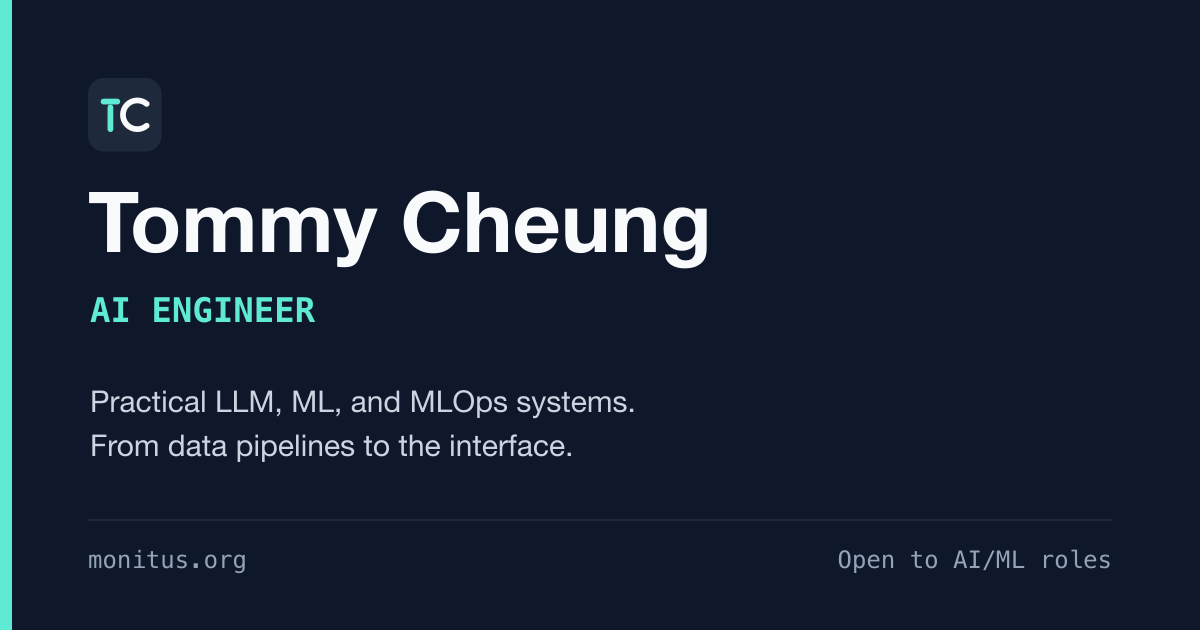
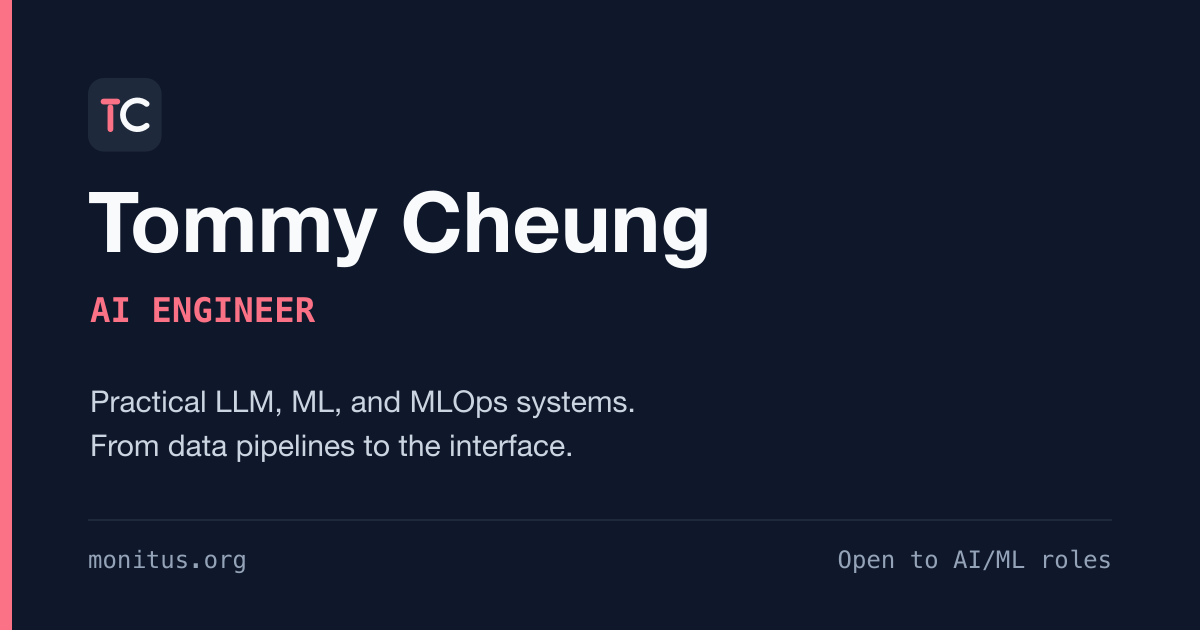
Switch accent palette to rose pink

Changed region(s): [[0.0, 0.0, 0.0308, 1.0], [0.0617, 0.4524, 0.2775, 0.5127], [0.0617, 0.1508, 0.1233, 0.181]]

diff --git a/src/styles/global.css b/src/styles/global.css
@@ -8,12 +8,12 @@
 
 /* you could refactor below to use light-dark(), depending on your target audience */
 @theme {
-	--color-global-bg: oklch(97% 0.005 200);
-	--color-global-text: oklch(25% 0.02 240);
-	--color-link: oklch(45% 0.11 190);
-	--color-accent: oklch(50% 0.105 185);
-	--color-accent-2: oklch(44% 0.1 185);
-	--color-quote: oklch(52% 0.16 25);
+	--color-global-bg: oklch(97% 0.006 350);
+	--color-global-text: oklch(25% 0.02 350);
+	--color-link: oklch(45% 0.17 12);
+	--color-accent: oklch(52% 0.19 12);
+	--color-accent-2: oklch(44% 0.17 12);
+	--color-quote: oklch(52% 0.14 220);
 }
 
 @layer base {
@@ -28,12 +28,12 @@
 
 		&[data-theme="dark"] {
 			color-scheme: dark;
-			--color-global-bg: oklch(22% 0.02 250);
-			--color-global-text: oklch(90% 0.01 240);
-			--color-link: oklch(78% 0.11 185);
-			--color-accent: oklch(80% 0.13 180);
-			--color-accent-2: oklch(82% 0.12 180);
-			--color-quote: oklch(85% 0.12 150);
+			--color-global-bg: oklch(22% 0.02 350);
+			--color-global-text: oklch(90% 0.01 350);
+			--color-link: oklch(78% 0.13 12);
+			--color-accent: oklch(78% 0.14 12);
+			--color-accent-2: oklch(80% 0.13 12);
+			--color-quote: oklch(85% 0.1 200);
 		}
 	}
 

diff --git a/astro.config.ts b/astro.config.ts
@@ -77,7 +77,7 @@ export default defineConfig({
 			],
 			start_url: "/",
 			background_color: "#0f172a",
-			theme_color: "#5eead4",
+			theme_color: "#f43f5e",
 			display: "standalone",
 			config: {
 				insertFaviconLinks: false,
